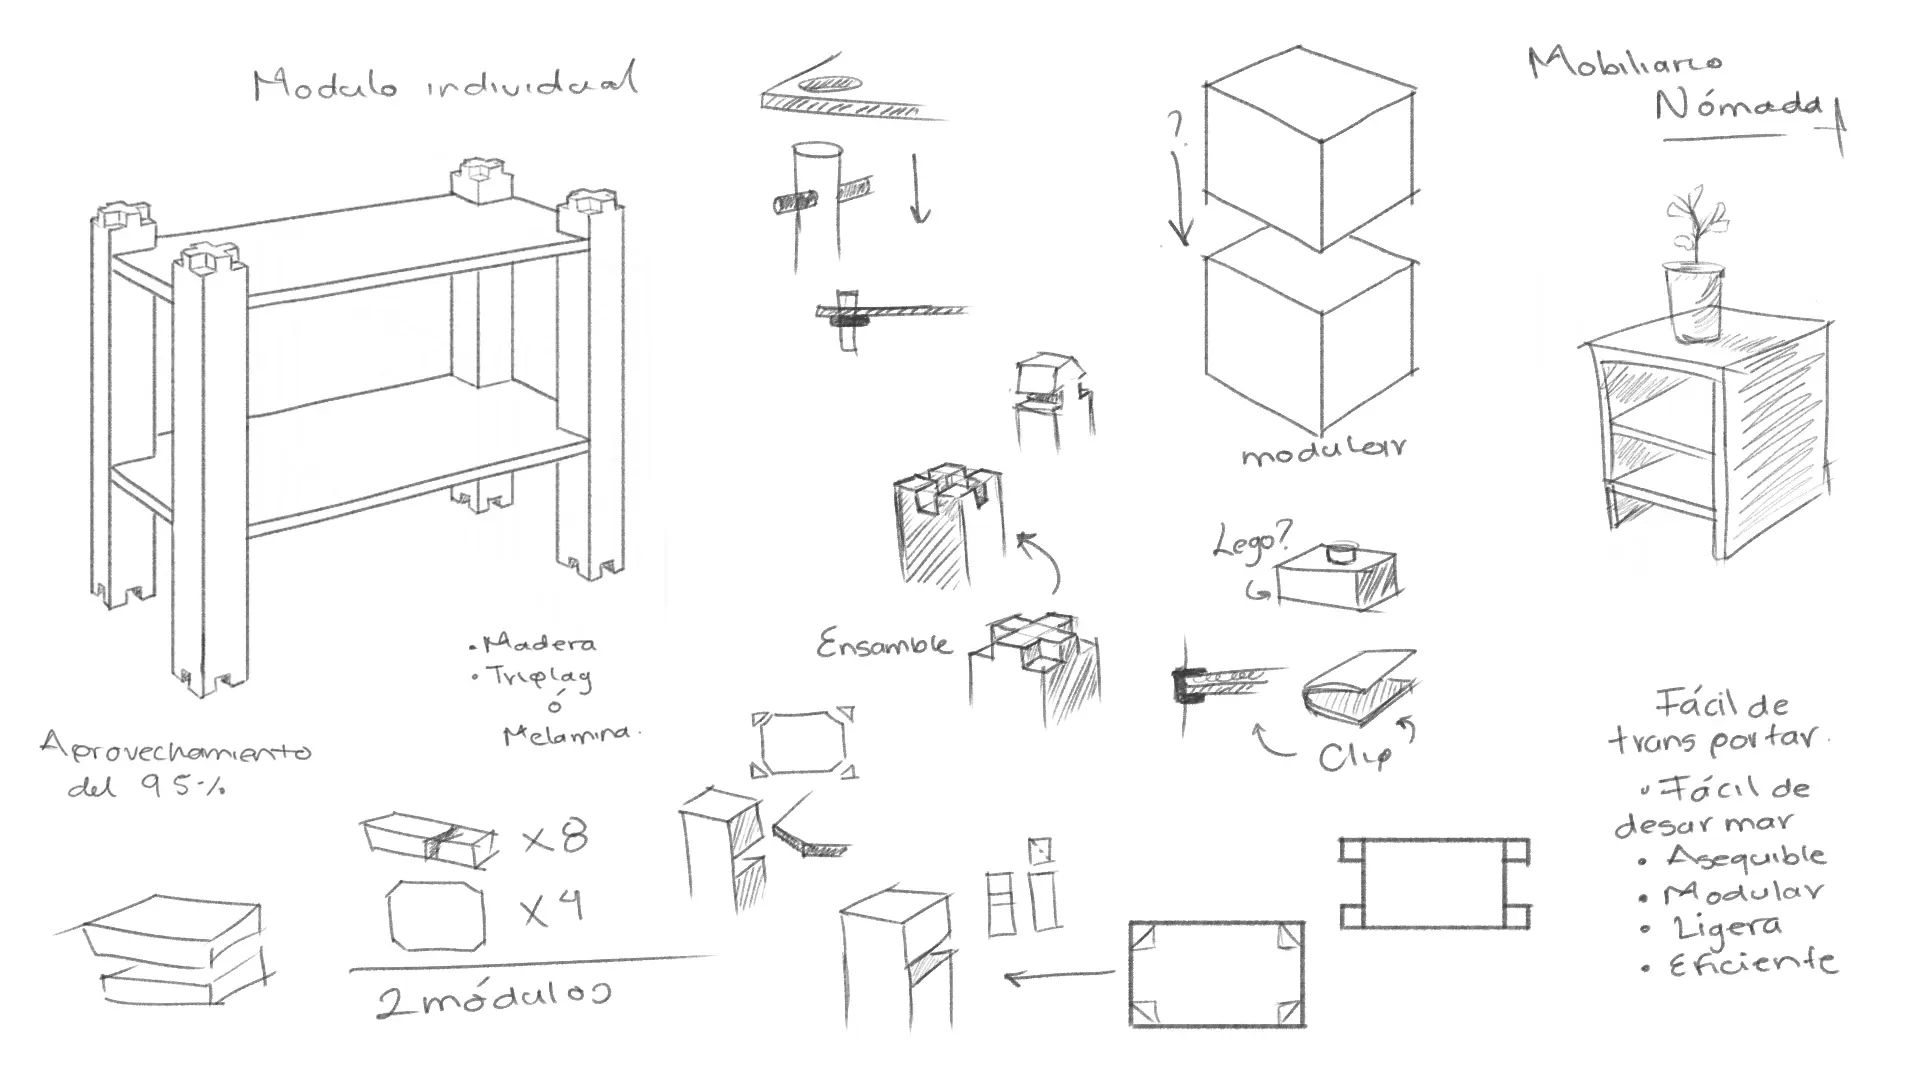
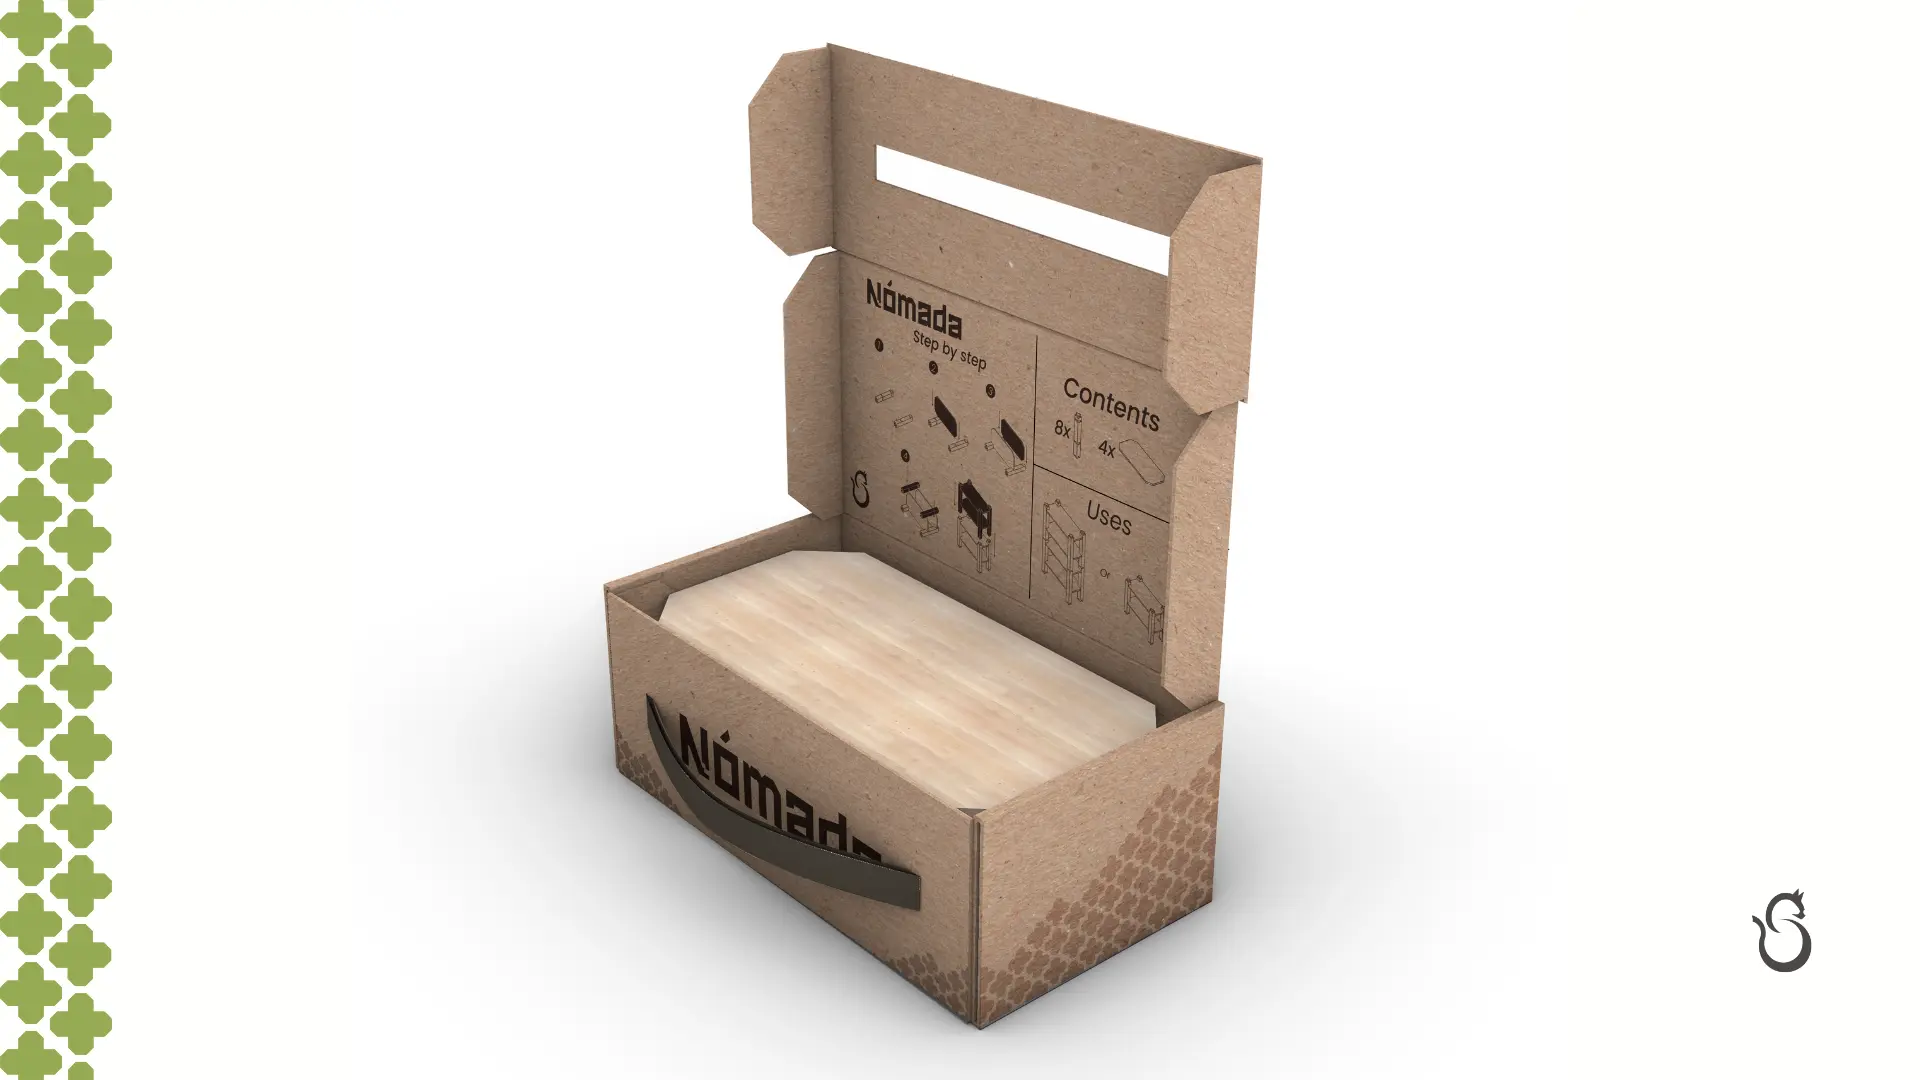
Alan fase 13

diff --git a/frontend/src/pages/Proyectos.jsx b/frontend/src/pages/Proyectos.jsx
@@ -15,6 +15,8 @@ import cafar3 from "../images/Proyectos/Exhibiciones/Cafar/cafar3.webp";
 import cafar4 from "../images/Proyectos/Exhibiciones/Cafar/cafar4.webp";
 import cafar5 from "../images/Proyectos/Exhibiciones/Cafar/cafar5.webp";
 import cafarMulata from "../images/Proyectos/Exhibiciones/Cafar/cafarnegro-final.webp";
+import cafarnegro2 from "../images/Proyectos/Exhibiciones/Cafar/cafarnegro2.webp";
+import cafarnegro3 from "../images/Proyectos/Exhibiciones/Cafar/cafarnegro3.webp";
 
 import modubo from "../images/Proyectos/Exhibiciones/Modubo/modubo-final.webp";
 import modubo2 from "../images/Proyectos/Exhibiciones/Modubo/modubo2.webp";
@@ -33,6 +35,7 @@ import carys2 from "../images/Proyectos/Exhibiciones/Carys/carysRender.webp";
 import carysSketch from "../images/Proyectos/Exhibiciones/Carys/carysSketch.webp";
 import carysLogo from "../images/Proyectos/Exhibiciones/Carys/carysLogo.webp";
 import carysProceso from "../images/Proyectos/Exhibiciones/Carys/carysProceso.webp";
+import carysFlores from "../images/Proyectos/Exhibiciones/Carys/carys6.webp";
 
 import sinergia from "../images/Proyectos/Exhibiciones/Sinergia/union-final.webp";
 import sinergia2 from "../images/Proyectos/Exhibiciones/Sinergia/sinergia2.webp";
@@ -66,6 +69,7 @@ import moduboAnimacion from "../images/Proyectos/Animaciones/ModuboAnimacion.mp4
 import keyhardyAnimacion from "../images/Proyectos/Animaciones/KeyhardyAnimacion.mp4";
 import cafarAnimacion from "../images/Proyectos/Animaciones/CafarAnimacion.mp4";
 import sinergiaAnimacion from "../images/Proyectos/Animaciones/SinergiaAnimacion.mp4";
+import cactaceaAnimacion from "../images/Proyectos/Animaciones/CactaceaAnimacion.mp4";
 
 //images from producto
 import prometeo from "../images/Proyectos/Producto/Prometeo/Prometeo.webp";
@@ -92,15 +96,18 @@ import demubo from "../images/Proyectos/Producto/Demubo/Demubo.webp";
 import demubo2 from "../images/Proyectos/Producto/Demubo/demubo2.webp";
 import demubo3 from "../images/Proyectos/Producto/Demubo/demubo3.webp";
 
+
 //images from joyería
 import alborada1 from "../images/Proyectos/Producto/Joyería/alborada1.webp";
 import alborada2 from "../images/Proyectos/Producto/Joyería/alborada2.webp";
 
 import feliamor1 from "../images/Proyectos/Producto/Joyería/feliamor1.webp";
 import feliamor2 from "../images/Proyectos/Producto/Joyería/feliamor2.webp";
+import feliamor3 from "../images/Proyectos/Producto/Joyería/feliamor3.webp";
 
 import fervor1 from "../images/Proyectos/Producto/Joyería/fervor1.webp";
 import fervor2 from "../images/Proyectos/Producto/Joyería/fervor2.webp";
+import fervor3 from "../images/Proyectos/Producto/Joyería/fervor3.webp";
 
 
 // Images from Mobiliario
@@ -124,6 +131,7 @@ import nomada2 from "../images/Proyectos/Mobiliario/Nomada/nomada2.webp";
 import nomada3 from "../images/Proyectos/Mobiliario/Nomada/nomada3.webp";
 import nomada4 from "../images/Proyectos/Mobiliario/Nomada/nomada4.webp";
 import nomada5 from "../images/Proyectos/Mobiliario/Nomada/nomada5.webp";
+import nomada6 from "../images/Proyectos/Mobiliario/Nomada/nomada6.webp";
 
 
 
@@ -133,19 +141,19 @@ const CATEGORIES = ["Todos", "Exhibiciones", "Animaciones", "Mobiliario", "Produ
 
 const PROJECTS_DATA = [
   //mobiliario
-  { id: 1, year: 2026, title: "Colección Catador", category: "Mobiliario", src: [catador, catador2, catador3, catador4],  tool: "Modelado en Rhinoceros, renderizado en V-Ray.", description: "Siempre se dice que el vino tiene un buen cuerpo, con notas sutiles. Una serie de mobiliario compuesta por una mesa que exhibe y sugiere, pero con aspectos discretos, que desea ocultar. Una silla más honesta, abierta y amable, una estantería para botellas y copas. Un acompañante silencioso, pero notorio. Catador, usa la mezcla de tonos como una herramienta de discurso simbólico." },
+  { id: 1, year: 2026, title: "Colección Catador", category: "Mobiliario", src: [catador, catador2, catador3, catador4],  tool: "Modelado en Rhinoceros, renderizado en V-Ray.", description: "Siempre se dice que el vino tiene un buen cuerpo, con notas sutiles. Una serie de mobiliario compuesta por una mesa que exhibe y sugiere, pero con aspectos discretos, que desea ocultar. Una silla más honesta, abierta y amable. Una estantería para botellas y copas, un acompañante silencioso pero notorio. Catador usa la mezcla de tonos como una herramienta de discurso simbólico." },
   { id: 2, year: 2022, title: "Mesa Ypsilon", category: "Mobiliario", src: [ypsilon, ypsilon2, ypsilon3, ypsilon4],  tool: "Fabricado con madera de Katalox, Onix Travertino.", description: "Una mesa de comedor con un enfoque sustentable para la fabricación, buscando optimizar el uso de los recursos, además de ser elaborado con materiales duraderos, locales y de bajo impacto." },
   { id: 3, year: 2024, title: "Nexy", category: "Mobiliario", src: [nexy, nexy2, nexy3, nexy4],  tool: "Modelado en SolidWorks, renderizado en V-Ray.", description: "Mesa modular multifuncional. Un mueble versátil, con una facilidad de montaje.Un diseño minimalista y elegante, enfocado en el aprovechamiento y optimización de recursos, así como en la transportabilidad." },
-  { id: 4, year: 2025, title: "Nómada", category: "Mobiliario", src: [nomada, nomada2, nomada3, nomada4, nomada5], tool: "Elaborado con madera de pino y triplay de pino. Identidad gráfica por: Soleónico.", description: "Repisero modular, diseñado para ser fácilmente transportable y resistente. Una solución accesible que optimiza el uso del espacio y mejora la organización en entornos reducidos."},
+  { id: 4, year: 2025, title: "Nómada", category: "Mobiliario", src: [nomada, nomada2, nomada3, nomada4, nomada5, nomada6], tool: "Elaborado con madera de pino y triplay de pino. Identidad gráfica por: Soleónico.", description: "Repisero modular, diseñado para ser fácilmente transportable y resistente. Una solución accesible que optimiza el uso del espacio y mejora la organización en entornos reducidos."},
 
   //exhibicion
   { id: 5, year: 2025, title:"Sinergia", category:"Exhibiciones", src: [sinergia, sinergia2, sinergia3, sinergiaProceso, sinergiaLogo], colaboration: "Colaboración con Juskani Alonso, Alejandra Ramírez y Ray Liebano. Identidad gráfica por Soleónico.", exibition: "ICFF+WantedDesign, Nueva York, Estados Unidos. 2025.", exibition2: "Nude Feria Hábitat de Valencia, España. 2025", tool: "Elaborado en vidrio y piedra volcánica por Vidrios Sorribes y Artesanías Ángel.", description: "Luminaria decorativa. Con tres piezas de vidrio, que con su propia esencia, se unen para formar una columna de luz. Símbolo de la colaboración e individualidad, que crea un conjunto armónico."},
-  { id: 6, year: 2023, title:"Sayar", category:"Exhibiciones", src: [sayar, sayar2, sayar3, sayar4, sayar5], colaboration: "Colaboración con MUT Design.", exibition: "Salone Satellite de Milán, Italia. 2023. Nude Feria Hábitat de Valencia, España. 2023Museo Regional de Cholula, México. 2023", tool: "Elaborado con Barro rojo por Ladrillos de México.", description: "Es una obra inspirada en la idea de \"explosión\" y en las cicatrices que deja, simbolizando la fuerza transformadora de la vida frente a lo artificial. A través de la ruptura y la imperfección, emerge una nueva belleza." },
+  { id: 6, year: 2023, title:"Sayar", category:"Exhibiciones", src: [sayar, sayar2, sayar3, sayar4, sayar5], colaboration: "Colaboración con MUT Design.", exibition: "Salone Satellite de Milán, Italia. 2023.", exibition2: "Nude Feria Hábitat de Valencia, España. 2023.", exibition3: "Museo Regional de Cholula, México. 2023", tool: "Elaborado con Barro rojo por Ladrillos de México.", description: "Es una obra inspirada en la idea de \"explosión\" y en las cicatrices que deja, simbolizando la fuerza transformadora de la vida frente a lo artificial. A través de la ruptura y la imperfección, emerge una nueva belleza." },
   { id: 7, year: 2024, title:"Nisa", category:"Exhibiciones", src: [nisa, nisaFinal, nisa2, nisa3, nisaSketch], colaboration: "Colaboración con Terben Pinson y Erick Serrano.", exibition: "ICFF+WantedDesign, Nueva York, Estados Unidos. 2024", tool:"Elaborado en lámina cal.14 por Rijaya Mx.", description: "Un taburete multifuncional museográfico. Inspirado en un elemento importante de la sociedad mexicana, los lavaderos. Buscando revalorar una actividad tan necesaria y ordinaria, con un significado cultural." },
-  { id: 8, year: 2025, title:"Carys", category:"Exhibiciones", src: [carys, carys2, carysProceso, carysSketch, carysLogo], colaboration: "Colaboración con Clap Studio, Daniela Denice y Daniela Dávila. Identidad gráfica por Soleónico.", exibition: "ICFF+WantedDesign, Nueva York, Estados Unidos. 2025.", exibition2: "Nude Feria Hábitat de Valencia, España. 2025", tool:"Fabricado en vidrio y piedra volcánica por Vidrios Sorribes y Artesanías Ángel.", description: "Un florero. Representación del cariño, unión e intimidad. Es un equilibrio entre la solidez y la sutileza, un objeto que captura la dualidad de una relación: La fuerza y la fragilidad." },
+  { id: 8, year: 2025, title:"Carys", category:"Exhibiciones", src: [carys, carys2, carysFlores, carysProceso, carysSketch, carysLogo], colaboration: "Colaboración con Clap Studio, Daniela Denice y Daniela Dávila. Identidad gráfica por Soleónico.", exibition: "ICFF+WantedDesign, Nueva York, Estados Unidos. 2025.", exibition2: "Nude Feria Hábitat de Valencia, España. 2025", tool:"Fabricado en vidrio y piedra volcánica por Vidrios Sorribes y Artesanías Ángel.", description: "Un florero. Representación del cariño, unión e intimidad. Es un equilibrio entre la solidez y la sutileza, un objeto que captura la dualidad de una relación: La fuerza y la fragilidad." },
   { id: 9, year: 2024, title:"Cafar", category:"Exhibiciones", src: [cafar, cafarExpo, cafar3, cafar4, cafar5], colaboration: "Colaboración con Hiroshi Tsunoda.", exibition: "Espacio Diseño, Museo Amparo; Puebla, México 2025", exibition2: "ICFF+WantedDesign, Nueva York, Estados Unidos. 2024.", tool:"Elaborado en Talavera por Talateca Mexican Pottery.", description: "Es un set de tres tazas modulares inspirado en la cultura y tradición mexicana. Destaca por su elegancia, funcionalidad e interacción, reflejando la riqueza cultural e histórica de México. Integrando elementos como: Café de altura, la pirámide de Cholula y la cerámica talavera." },
-  { id: 10, year: 2025, title:"Cafar Mulata", category:"Exhibiciones", src: cafarMulata, colaboration: "Colaboración con Hiroshi Tsunoda.", exibition: "", tool:"Elaborado en Talavera por Talateca Mexican Pottery.", description: "Versión monocromática de la serie Cafar, enfatizando la forma y la textura sobre el color." },
-  { id: 11, year: 2026, title:"Cactácea", category:"Exhibiciones", src: [cactacea, cactacea2, cactacea3d, cactaceaModel, cactaceaLogo], colaboration: "Colaboración con Berto Sánchez, Xinkanshi, Lorena Predes y Ray Liebano.", exibition: "ICFF+WantedDesign, Nueva York, Estados Unidos. 2026", tool:"Fabricado en talavera por Talateca Mexican Pottery.", description: "Este objeto de configuración vertical propone una reinterpretación contemporánea del tótem tradicional, conformado por secciones modulares. Su lenguaje formal surge de la abstracción de diversas cactáceas propias de México, adaptadas a un contexto de diseño contemporáneo. El objeto funciona como una metáfora de la identidad cultural mexicana; múltiples formas, historias y características que, al integrarse, crean una expresión colectiva." },
+  { id: 10, year: 2025, title:"Cafar Mulata", category:"Exhibiciones", src: [cafarMulata, cafarnegro2, cafarnegro3], colaboration: "Colaboración con Hiroshi Tsunoda.", exibition: "", tool:"Elaborado en Talavera por Talateca Mexican Pottery.", description: "Versión monocromática de la serie Cafar, enfatizando la forma y la textura sobre el color." },
+  { id: 11, year: 2026, title:"Cactácea", category:"Exhibiciones", src: [cactacea, cactacea2, cactacea3d, cactaceaModel, cactaceaLogo], colaboration: "Colaboración con Berto Sánchez, Xinkanshi, Lorena Paredes y Ray Liebano.", exibition: "ICFF+WantedDesign, Nueva York, Estados Unidos. 2026", tool:"Fabricado en talavera por Talateca Mexican Pottery.", description: "Este objeto de configuración vertical propone una reinterpretación contemporánea del tótem tradicional, conformado por secciones modulares. Su lenguaje formal surge de la abstracción de diversas cactáceas propias de México, adaptadas a un contexto de diseño contemporáneo. El objeto funciona como una metáfora de la identidad cultural mexicana; múltiples formas, historias y características que, al integrarse, crean una expresión colectiva." },
   { id: 12, year: 2024, title:"Modubo", category:"Exhibiciones",  src: [modubo, modubo2, modubo3, modubo4, modubo5], colaboration: "Colaboración con MUT Design.", exibition: "Inédito, Design Week CDMX. México 2024", tool:"Fabricado en concreto con terrazo por Concrete Workshop Mx.", description: "De “modular” y “tubo”, es una pieza modular de concreto. Con un diseño directo, minimalista y robusto. Los módulos pueden unirse para funcionar como: Taburete, almacenamiento, repisas, estructuras decorativas o separador de ambientes." },
  
   //arte
@@ -156,22 +164,25 @@ const PROJECTS_DATA = [
 
   //producto
   { id: 17, year: 2026, title: "Prometeo", category:"Producto", src: [prometeo, prometeo2], tool:"Modelado y renderizado con Blender.", description: "Luminaria ambiental, el fuego sagrado que ha sido traído desde el cielo, y hoy toca lo terrenal. Un objeto que busca representar lo mortal, lo divino, lo asombroso y lo cotidiano. Busca recordarnos tanto a lo religioso como a lo común, la base, con colores rojos, naranjas y amarillos, nos recuerda a una fogata, el posible primer uso del fuego para la humanidad." },
-  { id: 18, year: 2025, title: "Tower of Power", category:"Producto", src: [towerOfPower, towerOfPower2, towerOfPower3], tool:"Elaborado con madera de pino, acero inoxidable.", description: "Los mejores equipos construyen grandes cosas juntos. Pero alcanzar o incluso superar los objetivos establecidos impone grandes exigencias para todos los implicados. '¿Cómo queremos hablar entre nosotros?', '¿Qué es importante para nosotros en nuestra colaboración?' – estas y otras preguntas deben responderse juntas. Las respuestas son la clave para un 'trabajo en equipo' disfrutable. Un juguete didáctico para fomentar el trabajo en equipo." },
-  { id: 19, year: 2025, title: "Lego Duck", category:"Producto", src: [legoDuck, legoDuck2, legoDuck3], tool:"Fabricado en triplay de madera de pino.", description: "El pato LEGO es un set de juguetes de madera lanzado en 1935. Contiene un modelo de madera de un pato y fue uno de los primeros juguetes fabricados por LEGO. También es, posiblemente, el juguete de madera más popular jamás producido por LEGO. Cuenta con ruedas rodantes y una cuerda con un mando para poder tirar." },
-  { id: 20, year: 2025, title: "Bauspiel", category:"Producto", src: [bauspiel, bauspiel2, bauspiel3], tool:"Fabricado con madera de pino", description: "En 1924, Alma Siedhoff-Buscher diseñó Bauspiel. \"Nuestros juguetes (Bauhaus): la forma - simple - inconfundiblemente clara y definida - la variedad y la estimulación son creados por los propios niños a través de la combinación, la construcción. En consecuencia, un desarrollo sostenido\"." },
-  { id: 21, year: 2024, title: "Demubo", category:"Producto", src: [demubo, demubo2, demubo3], tool:"Fabricado en MDF y Triplay de madera de pino, renders en Blender.", description: "Una pieza que forma parte de la familia “Modubo”, su nombre es un juego de palabras, haciendo uso del prefijo “Demi” y Modubo. Una pieza nacida tras múltiples iteraciones jugando con las figuras básicas. Un objeto más decorativo, que busca generar espacios diferentes, estructuras para almacenamiento y tótems con un uso más similar a celosías." },
+  { id: 18, year: 2025, title: "Tower of Power", category:"Producto", src: [towerOfPower, towerOfPower2, towerOfPower3], tool:"Réplica elaborada en madera de pino y acero inoxidable.", description: "Los mejores equipos construyen grandes cosas juntos. Pero alcanzar o incluso superar los objetivos establecidos impone grandes exigencias para todos los implicados. '¿Cómo queremos hablar entre nosotros?', '¿Qué es importante para nosotros en nuestra colaboración?' – estas y otras preguntas deben responderse juntas. Las respuestas son la clave para un 'trabajo en equipo' disfrutable. Un juguete didáctico para fomentar el trabajo en equipo." },
+  { id: 19, year: 2025, title: "Lego Duck", category:"Producto", src: [legoDuck, legoDuck2, legoDuck3], tool:"Réplica elaborada en triplay de madera de pino.", description: "El pato LEGO es un set de juguetes de madera lanzado en 1935. Contiene un modelo de madera de un pato y fue uno de los primeros juguetes fabricados por LEGO. También es, posiblemente, el juguete de madera más popular jamás producido por LEGO. Cuenta con ruedas rodantes y una cuerda con un mando para poder tirar." },
+  { id: 20, year: 2025, title: "Bauspiel", category:"Producto", src: [bauspiel, bauspiel2, bauspiel3], tool:"Réplica elaborada con madera de pino", description: "En 1924, Alma Siedhoff-Buscher diseñó Bauspiel. \"Nuestros juguetes (Bauhaus): la forma - simple - inconfundiblemente clara y definida - la variedad y la estimulación son creados por los propios niños a través de la combinación, la construcción. En consecuencia, un desarrollo sostenido\"." },
+  { id: 21, year: 2024, title: "Demubo", category:"Producto", src: [demubo, demubo2, demubo3], tool:"Elaborado en MDF y Triplay de madera de pino, renders en Blender.", description: "Una pieza que forma parte de la familia “Modubo”, su nombre es un juego de palabras, haciendo uso del prefijo “Demi” y Modubo. Una pieza nacida tras múltiples iteraciones jugando con las figuras básicas. Un objeto más decorativo, que busca generar espacios diferentes, estructuras para almacenamiento y tótems con un uso más similar a celosías." },
   { id: 22, year: 2025, title: "Anhelos Diversos", category:"Producto", src: [anhelosDiversos, anhelosDiversos2, anhelosDiversos3, anhelosDiversos4], tool:"Modelado en Rhinoceros y renderizado en V-Ray.", description: "Una colección inspirada en la elegancia de la talavera, buscando generar piezas elegantes, piezas que invitan a la apreciación. Compuesto por 3 productos: Silvia, un florero, representante de la naturaleza, lo inorgánico que sostiene y lo orgánico que florece; Sia, una taza, símbolo de la dualidad entre lo intelectual/lógico y la intuición; Selene, una luminaria ambiental que busca recordarnos el movimiento y la atmósfera que puede generar la luna a lo largo de sus fases."},
   //joyería
-  { id: 23, year: 2025, title: "Alborada", category: "Joyería", src: [alborada1, alborada2], tool: "Elaborado en Plata 925.", description: "La estrella del amanecer, la primera luz del día que se hace notar, imposible de no ver. Una compañera. Una presencia que busca ser un faro en la oscuridad. Un anillo de plata ley 925." },
-  { id: 24, year: 2025, title: "Feliamor", category: "Joyería", src: [feliamor1, feliamor2], tool: "Elaborado en Plata 925, mediante el proceso de cera perdida.", description: "Es una carta de amor, a la espera de un destinatario”. Un anillo de plata, que representa un amor maduro, los ideales y el pasado, como símbolo de completa entrega. Feliamor, puede definirse así: “Amar con la libertad de un gato." },
-  { id: 25, year: 2025, title: "Fervor", category: "Joyería", src: [fervor1, fervor2], tool: "Fabricado en Plata 925.", description: "Una handchain y anillos, inspirados en la fuerza, fluidez y lo provocativo del fuego. Con una presencia envolvente, imposible de ocultar, es símbolo de pasión e intensidad auténtica. El fuego que enaltece tu corazón y lo mueve." },
+  { id: 23, year: 2025, title: "Alborada", category: "Joyería", src: [alborada1, alborada2], tool: "Elaborado en plata 925.", description: "La estrella del amanecer, la primera luz del día que se hace notar, imposible de no ver. Una compañera. Una presencia que busca ser un faro en la oscuridad. Un anillo de plata ley 925." },
+  { id: 24, year: 2025, title: "Feliamor", category: "Joyería", src: [feliamor1, feliamor2, feliamor3], tool: "Elaborado en plata 925, mediante el proceso de cera perdida.", description: "Es una carta de amor, a la espera de un destinatario”. Un anillo de plata, que representa un amor maduro, los ideales y el pasado, como símbolo de completa entrega. Feliamor, puede definirse así: “Amar con la libertad de un gato." },
+  { id: 25, year: 2025, title: "Fervor", category: "Joyería", src: [fervor1, fervor2, fervor3], tool: "Elaborado en plata 925, resina cristal y PLA.", description: "Una handchain y anillos, inspirados en la fuerza, fluidez y lo provocativo del fuego. Con una presencia envolvente, imposible de ocultar, es símbolo de pasión e intensidad auténtica. El fuego que enaltece tu corazón y lo mueve." },
   //animaciones
   { id: 26, year: 2026, title: "Nisa", category: "Animaciones", src: nisaAnimacion, type: "video", tool: "Animación realizada en Blender.", description: "Exploración de movimiento y función del taburete Nisa. La animación destaca la versatilidad y el diseño modular museográfico inspirado en la cultura mexicana." },
   { id: 27, year: 2026, title: "Sayar", category: "Animaciones", src: sayarAnimacion, type: "video", tool: "Animación realizada en Blender.", description: "Exploración de movimiento y función del florero Sayar. La animación muestra su uso como pieza decorativa y su capacidad para realzar la belleza de las flores." },
-  { id: 28, year: 2026, title: "Modubo", category: "Animaciones", src: moduboAnimacion, type: "video", tool: "Animación realizada en Blender.", description: "Exploración de movimiento y función del taburete Modubo. La animación destaca la versatilidad y el diseño modular museográfico inspirado en la cultura mexicana." },
+  { id: 28, year: 2026, title: "Demubo", category: "Animaciones", src: moduboAnimacion, type: "video", tool: "Animación realizada en Blender.", description: "Exploración de movimiento y función del taburete Modubo. La animación destaca la versatilidad y el diseño modular museográfico inspirado en la cultura mexicana." },
   { id: 29, year: 2025, title: "Key Hardy", category: "Animaciones", src: keyhardyAnimacion, type: "video", tool: "Animación realizada en Blender.", description: "Un personaje original, inspirado en las historias de aventureros espaciales, soldados dedicados a la protección de la humanidad o simples cazarrecompensas, que viven aventuras a lo largo de la galaxia. Primera animación que he hecho en blender, explorando un poco las diferentes funciones." },
   { id: 30, year: 2025, title: "Cafar", category: "Animaciones", src: cafarAnimacion, type: "video", tool: "Animación realizada en Blender.", description: "Exploración de movimiento y función del set de tazas para café. La animación muestra su uso como pieza para compartir y disfrutar de una buena taza de café." },
   { id: 31, year: 2026, title: "Sinergia", category: "Animaciones", src: sinergiaAnimacion, type: "video", tool: "Animación realizada en Blender.", description: "Exploración de movimiento y función de la lámpara Sinergia. La animación muestra su uso como pieza decorativa y su capacidad para realzar el espacio." },
+  { id: 32, year: 2026, title: "Cactácea", category: "Animaciones", src: cactaceaAnimacion, type: "video", tool: "Animación realizada en Blender.", description: "Una reinterpretación del tótem contemporáneo, una pieza que invita a la reflexión y observación, realizada en cerámica."},
+
+
 ].sort((a, b) => b.year - a.year);
 
 const ProjectCard = ({ project, onOpenModal }) => {
@@ -237,6 +248,7 @@ const ProjectCard = ({ project, onOpenModal }) => {
                 >
                   <p>{project.exibition}</p>
                   <p>{project.exibition2}</p>
+                  <p>{project.exibition3}</p>
                 </motion.div>
               )}
             </AnimatePresence>

diff --git a/frontend/src/pages/Colaboraciones.jsx b/frontend/src/pages/Colaboraciones.jsx
@@ -33,14 +33,14 @@ const PROJECTS_DATA = [
   //marcas
   { id: 1, title: "Concrete Workshop MX", category: "Marcas", name: "Concrete", insta: "http://www.instagram.com/concreteworkshopmx/", src: concrete, description: "Un taller de arquitectura especializado en terrazo y concreto. Con líneas de trabajo en elementos arquitectónicos, piezas de gran formato, decorativas y mobiliario urbano.", description2: "Participamos en el desarrollo de una exhibición colectiva organizada por la Universidad Anáhuac Puebla para Inédito 2024, dentro de Design Week México. Colaboramos de manera integral en la conceptualización y materialización del proyecto Modubo, llevándolo de la idea a su ejecución final."},
   { id: 2, title: "Gepetto. Diseño en madera", category: "Marcas", name: "Gepetto", insta: "http://www.instagram.com/gepetto_diseno/", src: gepetto, description: "Especializada en la fabricación de mobiliario bajo el principio de la madera como un material noble, resistente, decorativo e importante.", description2: "El equipo de Gepetto se distingue por su maestría en el trabajo artesanal de la madera. Hemos colaborado con ellos en el desarrollo del proyecto Nisa, exhibido en WantedDesign 2024. Además, han participado como asesores en distintos proyectos, destacando por su disposición para enfrentar y resolver desafíos de diseño complejos."},
-  { id: 3, title: "Ladrillos de México", category: "Marcas", name: "Ladrillos", insta: "http://www.instagram.com/ladrillosdemexico/", src: ladrillos, description: "Especializada en el manejo de barro rojo, piezas de acabados arquitectónicos, piezas de diseño decorativo y luminarias.", description2: "Nuestra primera colaboración como fabricantes del proyecto Sayar, primera pieza presentada en ferias de diseño internacionales como el SaloneSatellite en Milán, Nude Feria Hábitat Valencia 2023 y Design Week Puebla 2023. Esta colaboración destaca por el trabajo conjunto con artesanos y la creación de productos con acabados rústicos y naturales."},
+  { id: 3, title: "Ladrillos de México", category: "Marcas", name: "Ladrillos", insta: "http://www.instagram.com/ladrillosdemexico/", src: ladrillos, description: "Especializada en el manejo de barro rojo, piezas de acabados arquitectónicos, piezas de diseño decorativo y luminarias.", description2: "Nuestra primera colaboración fue como fabricantes del proyecto Sayar, primera pieza presentada en ferias de diseño internacionales como el Salone Satellite en Milán 2023, Nude Feria Hábitat Valencia 2023 y Design Week Puebla 2023. Esta colaboración destaca por el trabajo conjunto con artesanos y la creación de productos con acabados rústicos y naturales."},
   { id: 4, title: "Rijaya MX", category: "Marcas", name: "Rijaya", insta: "http://www.instagram.com/rijaya.em/", src: rijaya, description: "Especializados en el diseño y la producción de Racks, lockers, muebles metálicos y estanterías.", description2: "Colaboramos en la fabricación de Nisa, una pieza exhibida en WantedDesign 2024, participando junto a una marca especializada en el trabajo del metal, destacada por su capacidad para resolver procesos técnicos complejos."},
-  { id: 5, title: "Sorribes", category: "Marcas", name: "Sorribes", insta: "http://www.instagram.com/vidriosorribes/", src: sorribes, description: "Desde Valencia, España. Una marca de artesanos maestros en el manejo del vidrio.", description2: "Colaboramos con una marca de artesanos especializados en el trabajo del vidrio, participando en el desarrollo de proyectos exhibidos en WantedDesign 2025 y en Nude Feria Hábitat Valencia."},
+  { id: 5, title: "Vídrios Sorribes", category: "Marcas", name: "Sorribes", insta: "http://www.instagram.com/vidriosorribes/", src: sorribes, description: "Desde Valencia, España. Una marca de artesanos maestros en el manejo del vidrio.", description2: "Colaboramos con una marca de artesanos especializados en el trabajo del vidrio, participando en el desarrollo de proyectos exhibidos en WantedDesign 2025 y en Nude Feria Hábitat Valencia."},
   { id: 6, title: "Talateca", category: "Marcas", name: "Talateca", insta: "https://www.instagram.com/talateca/", src: talateca, description: "Una tradición familiar de más de cien años dentro de la industria alfarera.", description2: "Una de las marcas con las que hemos desarrollado una colaboración cercana, participando en la producción de piezas presentadas en importantes ferias de diseño. Destaca su participación en la fabricación de “Cafar” y la colección “Cactácea”."},
   //diseño web
   { id: 7, title: "Artboom. Design studio & Web Development", category: "Diseño Web", name: "Artboom", insta: "https://mi-pagina-web-two-self.vercel.app/", src: artboom, description: "Un estudio multidisciplinario enfocado en el diseño y desarrollo web, con experiencia en la creación de experiencias digitales innovadoras y personalizadas.", description2: "Encargada del desarrollo de nuestra web, trabajando en conjunto con Sayar, para generar una página principal de la marca, donde podrán conocer a mayor profundidad sobre nuestros proyectos y sobre nosotros."},
   //diseñadores
-  { id: 8, title: "Berto Sánchez", category: "Diseñadores", name: "Berto Sánchez", insta: "http://www.instagram.com/berto_by_berto/", src: berto, description: "Cofundador del prestigioso estudio MUT Design. ", description2: "El diseñador Valenciano Alberto Sanchez. Su nueva marca personal, es concebida como una extensión natural de su universo creativo. Un proyecto que despliega su propio lenguaje sin renunciar a los principios que le han definido en su trayectoria."},
+  { id: 8, title: "Berto Sánchez", category: "Diseñadores", name: "Berto Sánchez", insta: "http://www.instagram.com/berto_by_berto/", src: berto, description: "Cofundador del prestigioso estudio MUT Design. ", description2: "El diseñador Valenciano Alberto Sánchez. Su nueva marca personal, es concebida como una extensión natural de su universo creativo. Un proyecto que despliega su propio lenguaje sin renunciar a los principios que le han definido en su trayectoria."},
   { id: 9, title: "Clap Studio", category: "Diseñadores", name: "Clap Studio", insta: "http://www.instagram.com/weareclapstudio/", src: clap, description: "Estudio de diseño Valenciano.", description2: "Fundado por Jordi Iranzo y Ángela Montagud. Dedicado al diseño de interiores, diseño de producto e instalaciones de arte. Un estudio reconocido por diversos premios a nivel nacional e internacional, con trabajos en Arabia Saudi, Brasil, Hong Kong, Suiza, España y más."},
   { id: 10, title: "Juskani Alonso", category: "Diseñadores", name: "Juskani Alonso", insta: "http://www.instagram.com/juskani_alonso/", src: juskani, description: "Diseñador Mexicano.", description2: "Especializados en el desarrollo de producto, mobiliario y arquitectura de interiores, combinan conocimientos, historias y experiencias, tomando en cuenta factores específicos para crear soluciones integrales y experiencias únicas de diseño."},
   { id: 11, title: "Mut Design", category: "Diseñadores", name: "Mut Design", insta: "http://www.instagram.com/mut_design/", src: mut, description: "Alberto Sánchez y Eduardo Villalón.", description2: "MUT Design Studio está formado por un equipo multidisciplinario. Su inspiración proviene de la naturaleza y de los objetos aparentemente prosaicos que componen el rompecabezas de su vida diaria, siempre fiel a los principios del diseño emocional."},
@@ -94,8 +94,8 @@ function Colaboraciones() {
           animate={{ opacity: 1, y: 0 }}
           transition={{ duration: 0.8, delay: 0.2, ease: [0.16, 1, 0.3, 1] }}
         >
-          Explorando la intersección entre el material puro y la forma intencional. 
-          Un archivo curado de diseño industrial, artesanía digital y arte.
+          Trabajando con diversas marcas, diseñadores y artesanos mexicanos e internacionales, hemos desarrollado proyectos de distinta índole, que han sido exhibidos en diversas ferias de diseño y espacios culturales.
+          ¿Te quieres unir?
         </motion.p>
       </header>
 

diff --git a/frontend/src/styles/media.css b/frontend/src/styles/media.css
@@ -182,6 +182,7 @@ html, body {
     padding-top: 30px;
   }
 
+
   /* Modales - Full Refactor */
   .modal-proyectos,
   .modal-colaboraciones {
@@ -216,10 +217,6 @@ html, body {
     align-items: center;
   }
 
-  .modal-colaboraciones__overlay,
-  .modal-proyectos__overlay {
-    height: 400px;
-  }
 
   /* Carousel Toggle */
   .modal-proyectos__desktop-carousel {
@@ -304,7 +301,10 @@ html, body {
     opacity: 1;
     pointer-events: auto;
     padding: 20px 20px 20px;
+    height: 400px;
+    margin: 0;
   }
+
 
   .modal-proyectos__description,
   .modal-colaboraciones__description {
@@ -361,6 +361,7 @@ html, body {
 
   .servicios__subtitle {
     font-size: 9px;
+letter-spacing: .1em;
   }
     
   

diff --git a/frontend/src/pages/About.jsx b/frontend/src/pages/About.jsx
@@ -7,16 +7,16 @@ const specs = [
   { label: "Disciplina", value: "Diseño Industrial" },
   { label: "Experiencia", value: "2+ Años" },
   { label: "Especialidad", value: "Producto & Mobiliario modular" },
-  { label: "Herramientas", value: "SolidWorks, Rhino, V-Ray, Blender, Inventor, Photoshop" },
+  { label: "Softwares", value: "SolidWorks, Rhino, V-Ray, Blender, Inventor, Photoshop" },
   { label: "Materiales", value: "Cerámica, Madera, Joyería, Plásticos, Metales" },
   { label: "Habilidades", value: "Modelado digital, Prototipado, Storytelling, Conceptualización" },
 ];
 
 const awards = [
   { year: "2026", name: "Cactácea", event: "WantedDesign, Manhattan" },
-  { year: "2025", name: "Exelencia académica. Mención honorífica", event: "Universidad Anáhuac Puebla" },
+  { year: "2025", name: "Excelencia académica. Mención honorífica", event: "Universidad Anáhuac Puebla" },
   { year: "2024", name: "Cafar", event: "WantedDesign, Manhattan" },
-  { year: "2023", name: "Sayar, Salón Satélite", event: "Milán" },
+  { year: "2023", name: "Sayar", event: "Salone Satellite, Milán" },
 ];
 
 const containerVariants = {

diff --git a/frontend/src/styles/ModalColaboraciones.css b/frontend/src/styles/ModalColaboraciones.css
@@ -14,8 +14,9 @@
 }
 
 .modal-colaboraciones__content {
-  background: var(--surface, #fcf9f2);
+  background: var(--surface, #4d0000);
   width: fit-content;
+
   min-width: 40vw;
   max-width: 85vw;
   max-height: 90vh;
@@ -43,6 +44,8 @@
 
 .modal-colaboraciones__image-wrapper {
   position: relative;
+  padding-top: 30px;
+  padding-bottom: 30px;
   width: 100%;
   max-height: 70vh;
   overflow: hidden;